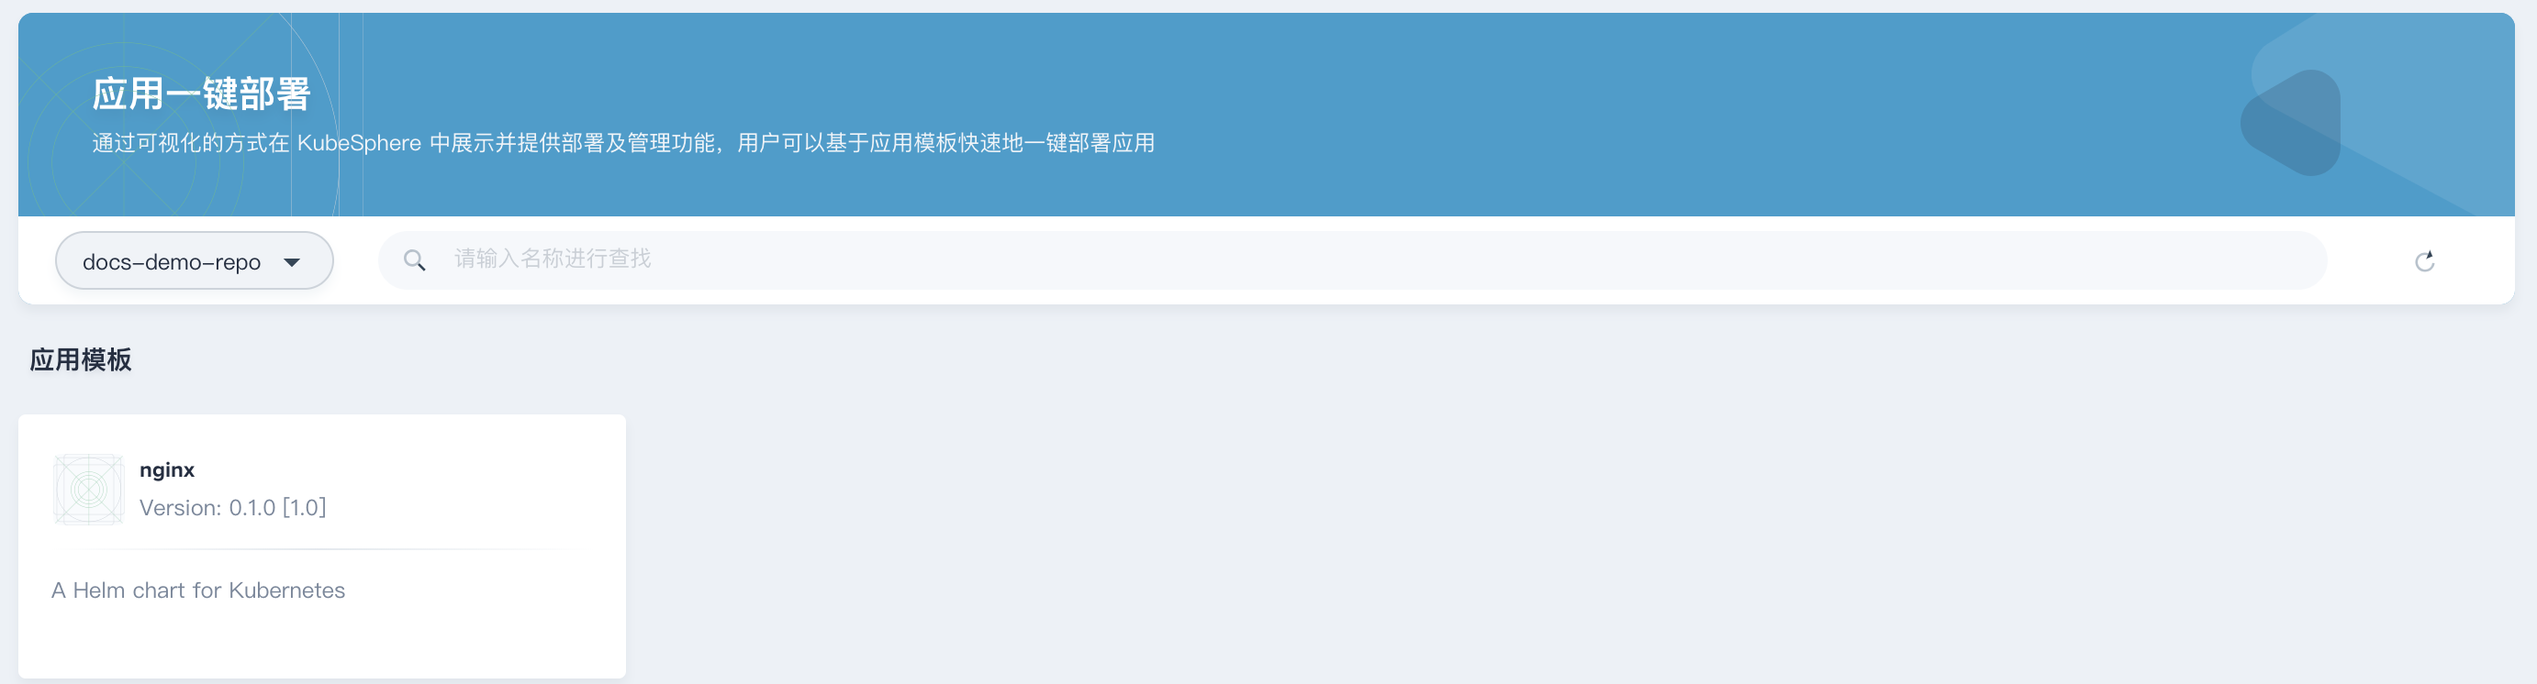
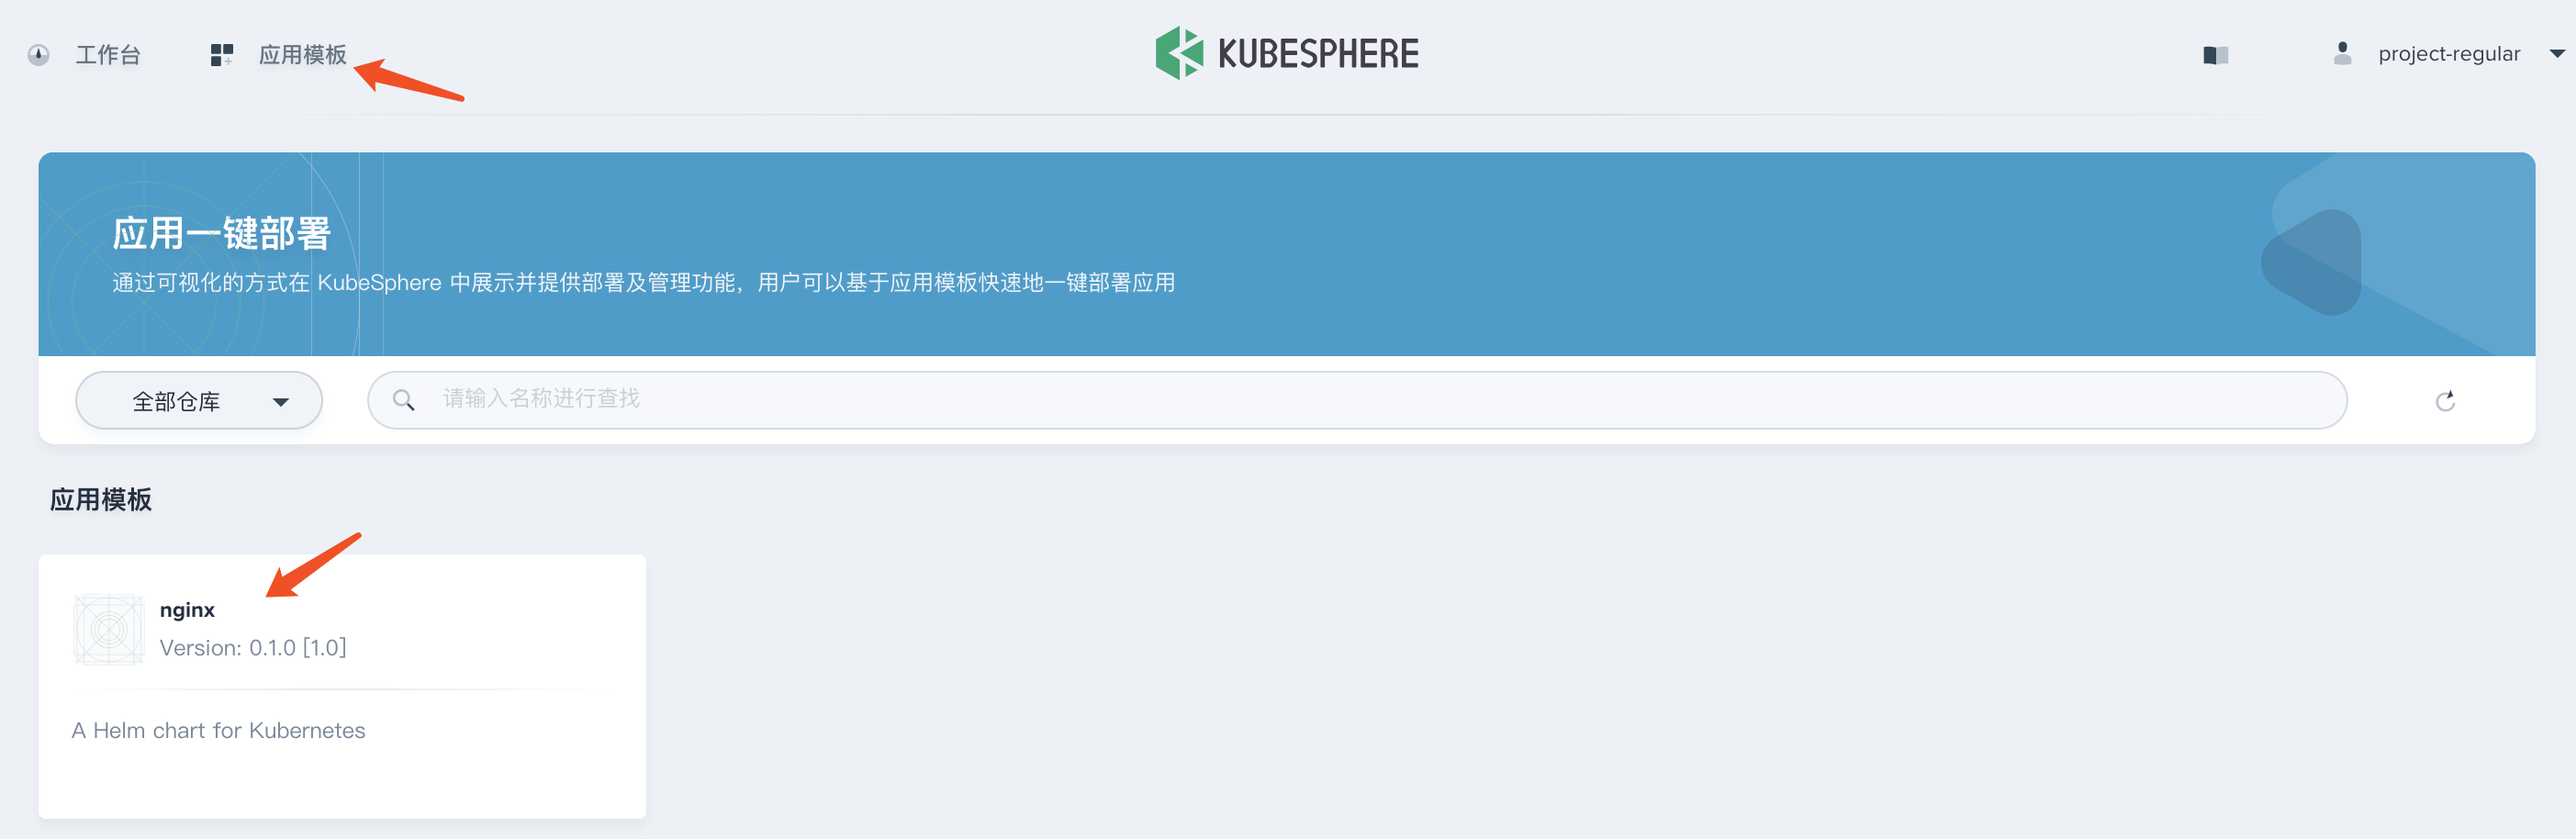
add quick start video

diff --git a/content/advanced-v1.0.0/zh-CN/quick-start/one-click-deploy.md b/content/advanced-v1.0.0/zh-CN/quick-start/one-click-deploy.md
@@ -21,6 +21,12 @@ title: "示例四 - 一键部署应用"
 
 ## 操作示例
 
+### 示例视频
+
+<video controls="controls" style="width: 100% !important; height: auto !important;">
+  <source type="video/mp4" src="https://kubesphere-docsvideo.gd2.qingstor.com/demo4-one-click-deploy.mp4">
+</video>
+
 ### 第一步：添加应用仓库
 
 应用仓库的后端可以是 QingStor 对象存储，也可以是 AWS 对象存储，里面存储的内容是开发者开发好的应用的配置包以及索引文件。因此在 KubeSphere 添加应用仓库之前，需提前在云平台创建对象存储并上传应用配置包，一般是基于 Helm Chart 规范开发的应用。本示例准备了一个基于 [QingStor 对象存储](https://www.qingcloud.com/products/qingstor/) 的应用仓库，里面包含了用于演示的 Nginx 应用配置包，若需要自行添加和上传应用，请参阅 [添加应用仓库](../../platform-management/app-repo)。
@@ -33,7 +39,7 @@ title: "示例四 - 一键部署应用"
 
 ![应用仓库详细信息](/app-repo-basic.png)
 
-3、添加完成后，可以在 **应用模板** 中查看新添加仓库的应用，点击应用名称为 `nginx` 的应用，准备部署该应用。
+3、添加完成后，可以在顶部的 **应用模板** 中查看新添加仓库的应用，点击应用名称为 `nginx` 的应用，准备部署该应用。
 
 ![查看应用模板](/app-template-lists.png)
 

diff --git a/content/advanced-v1.0.0/zh-CN/quick-start/mysql-deployment.md b/content/advanced-v1.0.0/zh-CN/quick-start/mysql-deployment.md
@@ -15,13 +15,13 @@ title: "示例一 - 部署 MySQL 有状态应用"
 
 约 10 分钟。
 
-## 示例视频
+## 操作示例
+
+### 示例视频
 
 <video controls="controls" style="width: 100% !important; height: auto !important;">
   <source type="video/mp4" src="https://kubesphere-docs.pek3b.qingstor.com/video/demo1-mysql.mp4">
 </video>
-
-## 操作示例
 
 ### 部署 MySQL
 

diff --git a/content/advanced-v1.0.0/zh-CN/quick-start/wordpress-deployment.md b/content/advanced-v1.0.0/zh-CN/quick-start/wordpress-deployment.md
@@ -17,6 +17,12 @@ title: "示例二 - 部署 Wordpress"
 
 ## 操作示例
 
+### 示例视频
+
+<video controls="controls" style="width: 100% !important; height: auto !important;">
+  <source type="video/mp4" src="https://kubesphere-docsvideo.gd2.qingstor.com/demo2-wordpress.mp4">
+</video>
+
 ### 部署 Wordpress
 
 #### 第一步：创建配置
